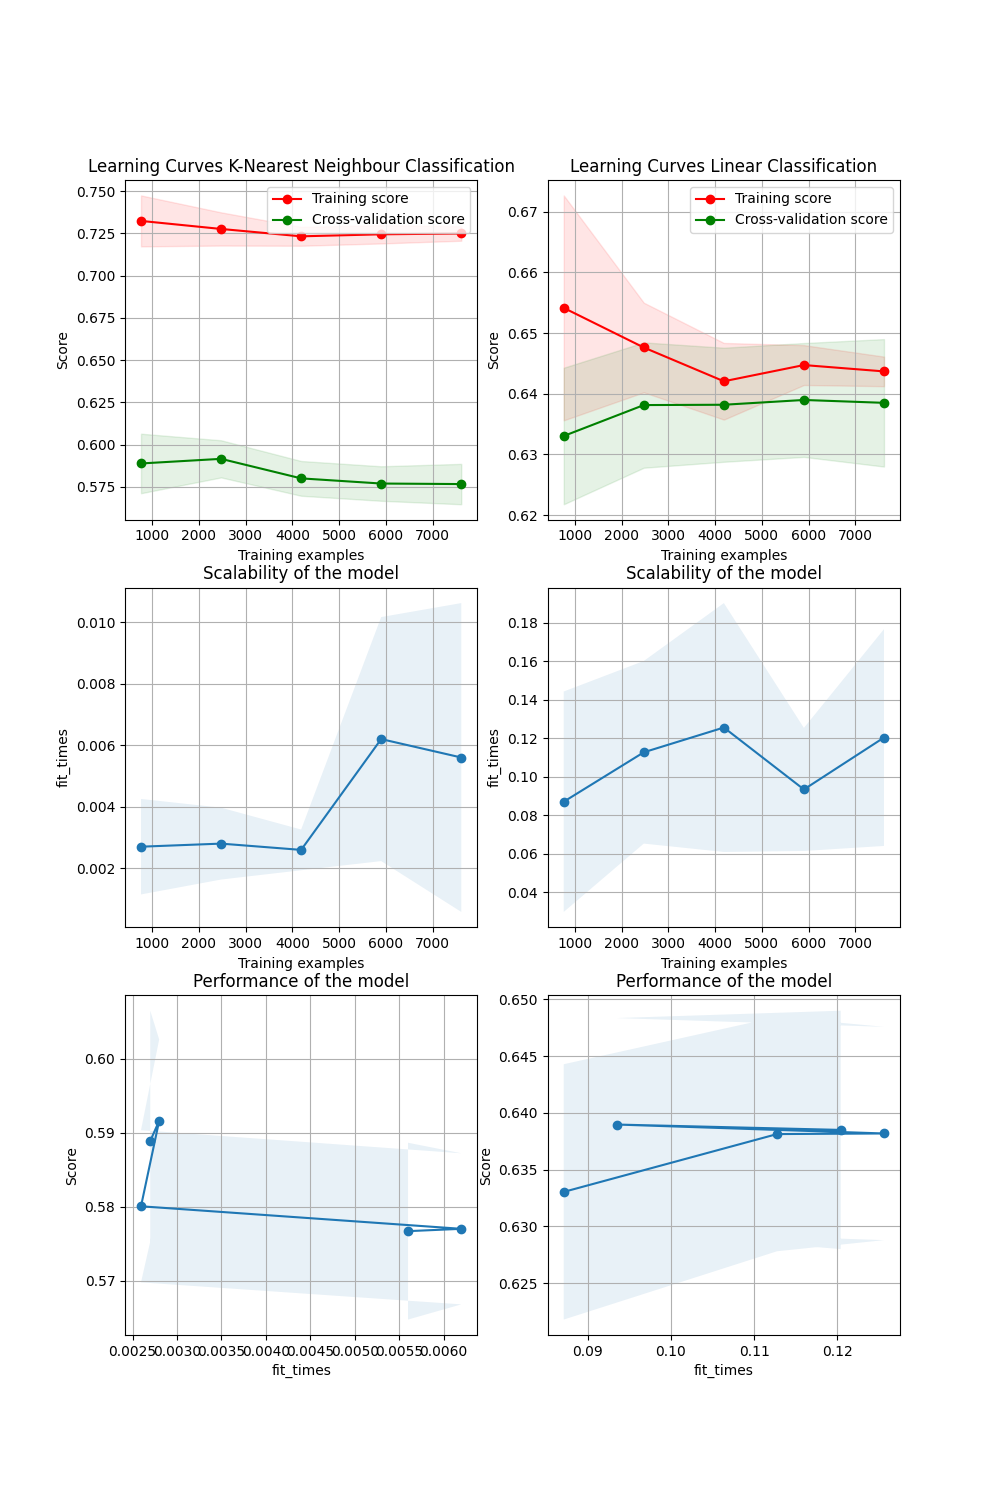
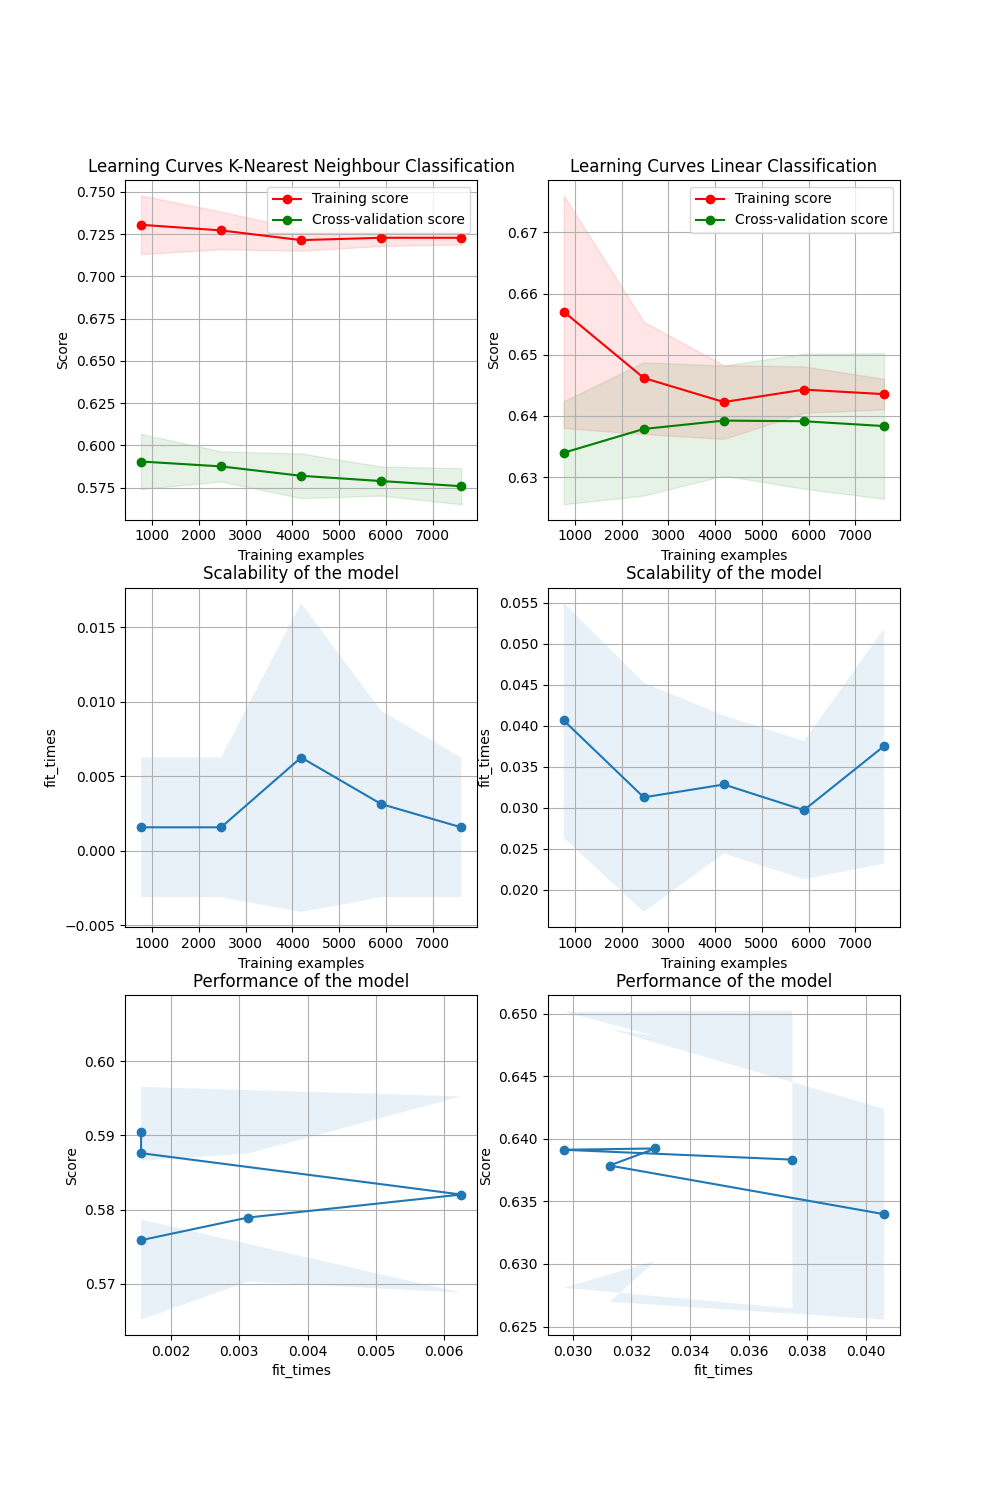
new learning curves

diff --git a/learning_curves_jw.py b/learning_curves_jw.py
@@ -1,0 +1,58 @@
+# ========================================================================= #
+# Learning curves for classification (comparison between two methods)
+# reference and inspiration
+# source: https://scikit-learn.org/stable/auto_examples/model_selection/plot_learning_curve.html
+#
+# Author:   Jesse Wolf, jwolf@uoguelph.ca | Thomas Papp-Simon, tpappsim@uoguelph.ca
+# Date:     March 26, 2023
+#
+# How to run:   python3 learning_curves.py -in merged_df_outliers_removed_CFS.csv  -m1 knn  -m2 linear -n 10
+# ========================================================================= #
+import matplotlib.pyplot as plt
+import numpy as np
+from sklearn.model_selection import LearningCurveDisplay, ShuffleSplit
+from sklearn.naive_bayes import GaussianNB
+import pandas as pd
+from sklearn.svm import SVC
+from sklearn.neighbors import KNeighborsClassifier
+from sklearn.neural_network import MLPClassifier
+
+# load the dataset; header is first row
+df = pd.read_csv('merged_df_outliers_removed_CFS.csv', header=0)
+# remove non-integer columns to plot
+df_slice = df.drop(['game_date', 'team_abbreviation_home', 'team_abbreviation_away'], axis=1)
+# separate input and output variables
+varray  = df_slice.values
+nc      = len(varray[0,:])-1
+X       = varray[:,1:18]
+y       = varray[:,nc]
+
+svc= SVC(C=1.0, gamma='auto')
+gnb =  GaussianNB()
+#knn = KNeighborsClassifier(n_neighbors=5)
+# linear = LogisticRegression(max_iter=100000)
+# rf= RandomForestClassifier(n_estimators=100, random_state=0)
+ann =  MLPClassifier(hidden_layer_sizes=(8,8,8), activation='relu', solver='adam', max_iter=500)
+
+
+fig, ax = plt.subplots(nrows=1, ncols=2, figsize=(10, 6), sharey=True)
+
+common_params = {
+    "X": X,
+    "y": y,
+    "train_sizes": np.linspace(0.1, 1.0, 5),
+    "cv": ShuffleSplit(n_splits=10, test_size=0.2, random_state=0),
+    "score_type": "both",
+    "n_jobs": 4,
+    "line_kw": {"marker": "o"},
+    "std_display_style": "fill_between",
+    "score_name": "Accuracy",
+}
+
+for ax_idx, estimator in enumerate([gnb, ann]):
+    LearningCurveDisplay.from_estimator(estimator, **common_params, ax=ax[ax_idx])
+    handles, label = ax[ax_idx].get_legend_handles_labels()
+    ax[ax_idx].legend(handles[:2], ["Training Score", "Test Score"])
+    ax[ax_idx].set_title(f"Learning Curve for {estimator.__class__.__name__}")
+plt.savefig(f'learningCurves/learning_curves_accuracy_gnb_ann_CFS_JWscript.png')    
+plt.show()

diff --git a/learning_curves.py b/learning_curves.py
@@ -68,10 +68,10 @@ def plot_learning_curve(estimator, title, X, y, axes=None, ylim=None, cv=None,
     if ylim is not None:
         axes[0].set_ylim(*ylim)
     axes[0].set_xlabel("Training examples")
-    axes[0].set_ylabel("Score")
+    axes[0].set_ylabel("F1 Score")
 
     train_sizes, train_scores, test_scores, fit_times, _ = \
-        learning_curve(estimator, X, y, cv=cv, n_jobs=n_jobs,
+        learning_curve(estimator, X, y, scoring = scoring, cv=cv, n_jobs=n_jobs,
                        train_sizes=train_sizes,
                        return_times=True)
     train_scores_mean = np.mean(train_scores, axis=1)
@@ -144,11 +144,12 @@ classifier2, method_name2 = set_classifier(method2)
 
 # load the dataset; header is first row
 df = pd.read_csv(filename, header=0)
-
+# remove non-integer columns to plot
+df_slice = df.drop(['game_date', 'team_abbreviation_home', 'team_abbreviation_away'], axis=1)
 # separate input and output variables
-varray  = df.values
+varray  = df_slice.values
 nc      = len(varray[0,:])-1
-X       = varray[:,1:nc]
+X       = varray[:,1:18]
 y       = varray[:,nc]
 
 fig, axes = plt.subplots(3, 2, figsize=(10, 15))
@@ -159,6 +160,7 @@ fig, axes = plt.subplots(3, 2, figsize=(10, 15))
 # Cross validation with 100 iterations to get smoother mean test and train
 # score curves, each time with 20% data randomly selected as a validation set.
 cv = ShuffleSplit(n_splits=num_splits, test_size=0.2, random_state=0)
+scoring = 'f1'
 title = r"Learning Curves " + method_name1
 plot_learning_curve(classifier1, title, X, y, axes=axes[:, 0], cv=cv, n_jobs=4)
 
@@ -173,5 +175,5 @@ title = r"Learning Curves " + method_name2
 plot_learning_curve(classifier2, title, X, y, axes=axes[:, 1], cv=cv, n_jobs=4)
 
 # save plots in file
-plt.savefig(f'learningCurves/learning_curves_{method1}_{method2}.png')
+plt.savefig(f'learningCurves/learning_curves_f1score_{method1}_{method2}_CFS.png')
 plt.show()
